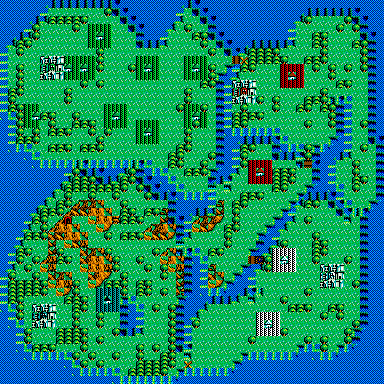
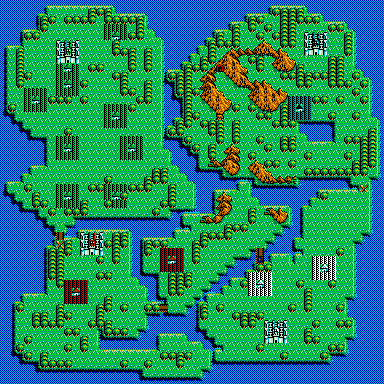
.MAP is column-major: transpose it on load
The user spotted it from a render: "the map pastes the picture rotated - the
rotation is missing".  It is.  The byte for the square at (x, y) sits at
x * 48 + y, so every render so far was the transpose of the real thing.

Measured before changing anything: against org45.gif (the demo's own screen,
which is B_044) the block-identity grid matches the transpose on 0.854 of its
squares, where the next best of the eight dihedral transforms is 0.464.
Rendering B_044 both ways, 472 of 2304 squares draw the same pattern as the
screenshot column-major against 22 row-major, and the column-major render is
the screenshot.

Everything that reads a cell moves with it:

  * gfx_load_map transposes as it loads, so nothing downstream has to know.
  * The castle's one way in, tile 0x1d, is now below its middle rather than to
    its right, and the side's own tile 0x74+side above it.  game_init places the
    second unit at found + MAP_W, the lord's new workers go out through the same
    square, and game_collect reads its two squares down the map's x.
  * tools/map.py transposes to match.
  * game_check no longer names the squares it works on - it asks the side where
    its castle is and steps down from there, which is what it should have done
    in the first place.

The suite is green again and B_014 comes out as what it plainly is: a spiral
with the four castles at the head of their own lane, water across each one.

diff --git a/tests/game_check.c b/tests/game_check.c
@@ -34,18 +34,26 @@ static void checkf(int ok, const char *fmt, int a, int b, int c)
     }
 }
 
-/* The castle is a fixed 3x3 in every map:
+/* The castle is a fixed 3x3 in every map.  The file holds it as
  *
  *     70 72 78
  *     7x 1x 1d      1x = 0x14 + side, 7x = 0x74 + side
  *     71 73 79
+ *
+ * and the file is column-major, so on screen that is the transpose:
+ *
+ *     70 7x 71
+ *     72 1x 73
+ *     78 1d 79
+ *
+ * which puts the castle's one way in, the 0x1d, directly below its middle.
  */
 static void check_castle_shape(const Map *m, int side, int x, int y)
 {
     static const unsigned char want[3][3] = {
-        {0x70, 0x72, 0x78},
-        {0x00, 0x00, 0x1d},         /* the middle row is side-dependent */
-        {0x71, 0x73, 0x79},
+        {0x70, 0x00, 0x71},         /* the middle of the top row is the side's */
+        {0x72, 0x00, 0x73},
+        {0x78, 0x1d, 0x79},
     };
     int dx, dy;
     for (dy = -1; dy <= 1; dy++)
@@ -54,7 +62,7 @@ static void check_castle_shape(const Map *m, int side, int x, int y)
             unsigned char got, expect;
             if (cx < 0 || cx >= MAP_W || cy < 0 || cy >= MAP_H) continue;
             got = m->cell[cy * MAP_W + cx];
-            if (dy == 0 && dx == -1) expect = (unsigned char)(0x74 + side);
+            if (dy == -1 && dx == 0) expect = (unsigned char)(0x74 + side);
             else if (dy == 0 && dx == 0) expect = (unsigned char)(0x14 + side);
             else expect = want[dy + 1][dx + 1];
             checkf(got == expect,
@@ -146,68 +154,80 @@ int main(int argc, char **argv)
     check(maps == 52, "all 52 maps loaded");
     printf("%d maps, %d neutral units in total\n", maps, totalNeutral);
 
-    /* Movement, on a map that has been looked at by hand.  B_000's first castle
-     * is at (6,8): the lord stands on it and the second unit on (7,8), the
-     * castle's 0x1d square. */
+    /* Movement.  The geometry is taken from the map rather than written down,
+     * because the file is column-major and the castle's gate sits below its
+     * middle. */
     {
         Map m;
-        int lord, mate, moved, dy;
+        int lord, mate, cx, cy, castle, gate;
         gfx_load_map(&m, d, "B_000.MAP");
         game_init(g, &m);
         lord = g->side[0].lord;
-        mate = g->occupant[game_cell_index(7, 8)];
+        cx = g->side[0].pos & 0xff;
+        cy = g->side[0].pos >> 8;
+        castle = game_cell_index(cx, cy);
+        gate = game_cell_index(cx, cy + 1);
+        mate = g->occupant[gate];
 
-        check((g->unit[lord].pos & 0xff) == 6 && (g->unit[lord].pos >> 8) == 8,
-              "B_000 side 0 lord starts at 6,8");
-        check(g->occupant[game_cell_index(6, 8)] == lord,
+        check(g->side[0].alive, "B_000 side 0 has a castle");
+        check(g->occupant[castle] == lord,
               "the lord owns its cell in the occupancy array");
         check(mate >= 0 && g->unit[mate].side == 0,
-              "the side's second unit is on 7,8");
+              "the side's second unit is in the gate below the castle");
+        checkf(g->cell[gate].tile == 0x1d,
+               "the gate square holds tile %02x, expected 0x1d",
+               g->cell[gate].tile, 0, 0);
 
-        /* The castle's own 3x3 tiles are 0x70..0x79, all of them 0x30 or above,
-         * so the only way off the middle square is the 0x1d to its right - and
-         * that one is taken.  The lord starts boxed in. */
-        check(g->cell[game_cell_index(6, 7)].tile >= CELL_IMPASSABLE,
-              "the castle's own tiles are impassable");
+        /* Every other neighbour of the middle is castle masonry, 0x30 or above,
+         * so the gate is the only way in or out. */
+        {
+            int dx, dy, walls = 0;
+            for (dy = -1; dy <= 1; dy++)
+                for (dx = -1; dx <= 1; dx++) {
+                    int n;
+                    if (!dx && !dy) continue;
+                    if (dx == 0 && dy == 1) continue;   /* the gate */
+                    n = game_cell_index(cx + dx, cy + dy);
+                    if (g->cell[n].tile >= CELL_IMPASSABLE) walls++;
+                }
+            checkf(walls == 7, "%d of the 7 masonry squares are impassable",
+                   walls, 0, 0);
+        }
+
+        /* The lord faces right; turning costs the step and the wall refuses it
+         * anyway. */
         check(g->unit[lord].facing == DIR_RIGHT, "new units face right");
-        check(!game_move(g, lord, DIR_UP), "turning takes the step");
-        check(g->unit[lord].facing == DIR_UP, "and leaves it facing that way");
-        check(!game_move(g, lord, DIR_UP),
-              "and the castle wall refuses it");
+        check(!game_move(g, lord, DIR_RIGHT), "the wall refuses it");
 
-        /* The unit on 7,8 can leave: 8,8 is ordinary ground. */
-        check(g->cell[game_cell_index(8, 8)].tile < CELL_IMPASSABLE,
-              "8,8 is passable");
-        moved = game_move(g, mate, DIR_RIGHT);
-        check(moved, "the second unit steps right");
-        check((g->unit[mate].pos & 0xff) == 8, "and is now on 8,8");
-        check(g->occupant[game_cell_index(7, 8)] == -1, "the old cell is free");
-        check(g->occupant[game_cell_index(8, 8)] == mate,
-              "and the new one is claimed");
+        /* The unit in the gate can leave downwards if that square is clear. */
+        {
+            int below = game_cell_index(cx, cy + 2);
+            if (g->cell[below].tile < CELL_IMPASSABLE &&
+                g->occupant[below] < 0) {
+                check(!game_move(g, mate, DIR_DOWN), "turning takes the step");
+                check(game_move(g, mate, DIR_DOWN), "then it steps out");
+                check(g->occupant[gate] == -1, "the gate is free");
+                check(g->occupant[below] == mate, "and the square below taken");
+            }
+        }
 
-        /* Now the lord can follow it right. */
-        check(!game_move(g, lord, DIR_RIGHT), "the lord turns back to the right");
-        check(game_move(g, lord, DIR_RIGHT), "and then follows");
-        check((g->unit[lord].pos & 0xff) == 7, "the lord is on 7,8");
-
-        /* Walking into one of your own merges the two, and the lord always
-         * takes the load - so it can step on through. */
+        /* Walking into one of your own merges them, and the lord always takes
+         * the load - so it can step on through. */
         game_init(g, &m);
         lord = g->side[0].lord;
-        mate = g->occupant[game_cell_index(7, 8)];
+        mate = g->occupant[gate];
         {
             int had = g->unit[lord].carrying + g->unit[mate].carrying;
-            check(game_move(g, lord, DIR_RIGHT),
-                  "the lord absorbs its own worker and steps on");
+            check(!game_move(g, lord, DIR_DOWN), "the lord turns to the gate");
+            check(game_move(g, lord, DIR_DOWN),
+                  "then absorbs its own worker and steps in");
             checkf(g->unit[lord].carrying == had,
                    "it now carries %d, expected %d",
                    g->unit[lord].carrying, had, 0);
             check(g->unit[mate].flags & 0x80, "and the worker is gone");
-            check((g->unit[lord].pos & 0xff) == 7, "the lord is on 7,8");
         }
 
-        /* Walking into an enemy trades blows.  Put one of side 1's units next
-         * to side 0's lord and let them fight. */
+        /* Walking into an enemy trades blows. */
         game_init(g, &m);
         lord = g->side[0].lord;
         {
@@ -218,34 +238,24 @@ int main(int argc, char **argv)
                     break;
                 }
             check(foe >= 0, "side 1 has a unit to borrow");
-            /* Move it next to the lord by hand. */
             g->occupant[game_cell_index(g->unit[foe].pos & 0xff,
                                         g->unit[foe].pos >> 8)] = -1;
-            g->occupant[game_cell_index(7, 8)] = -1;
-            g->unit[g->side[0].lord].facing = DIR_RIGHT;
-            g->unit[foe].pos = (unsigned short)((8 << 8) | 7);
-            g->unit[foe].at = (unsigned short)(game_cell_index(7, 8) * 2);
-            g->occupant[game_cell_index(7, 8)] = (short)foe;
+            g->unit[g->occupant[gate]].flags = 0x80;
+            g->occupant[gate] = (short)foe;
+            g->unit[foe].pos = (unsigned short)(((cy + 1) << 8) | cx);
+            g->unit[foe].at = (unsigned short)(gate * 2);
+            g->unit[lord].facing = DIR_DOWN;
 
             hp = g->unit[foe].carrying;
-            check(!game_move(g, lord, DIR_RIGHT),
+            check(!game_move(g, lord, DIR_DOWN),
                   "a step into an enemy is a blow, not a move");
-            /* The lord is on its castle, so it hits for carried/4 + 1 and
-             * takes nothing back. */
-            checkf(g->unit[foe].carrying == hp - ((1000 >> 2) + 1) ||
-                   (g->unit[foe].flags & 2),
+            checkf(g->unit[foe].carrying < hp || (g->unit[foe].flags & 2),
                    "the enemy went from %d to %d", hp,
                    g->unit[foe].carrying, 0);
             checkf(g->unit[lord].carrying == 1000,
                    "the lord took %d damage defending its castle",
                    1000 - g->unit[lord].carrying, 0, 0);
         }
-
-        /* The outermost ring is off limits whatever the tile says. */
-        dy = 0;
-        for (mate = 0; mate < UNIT_SLOTS; mate++)
-            if (!(g->unit[mate].flags & 0x80)) dy++;
-        check(dy == game_unit_count(g, -1), "the unit count agrees with itself");
     }
 
     /* Pathfinding: walk a unit somewhere and see that it arrives. */
@@ -254,13 +264,14 @@ int main(int argc, char **argv)
         int who, len, steps, tx, ty, guard;
         gfx_load_map(&m, d, "B_000.MAP");
         game_init(g, &m);
-        who = g->occupant[game_cell_index(7, 8)];
-        check(who >= 0, "there is a unit on 7,8 to walk");
+        who = g->occupant[game_cell_index(g->side[0].pos & 0xff,
+                                          (g->side[0].pos >> 8) + 1)];
+        check(who >= 0, "there is a unit in the gate to walk");
 
         /* Somewhere reachable and a fair distance off. */
         tx = 20; ty = 20;
         len = game_path_to(g, who, tx, ty);
-        checkf(len > 0, "no path from 7,8 to 20,20 (%d)", len, 0, 0);
+        checkf(len > 0, "no path from the gate to 20,20 (%d)", len, 0, 0);
         check(g->unit[who].link == who, "the unit points at its own path");
 
         steps = 0;
@@ -464,7 +475,8 @@ int main(int argc, char **argv)
 
         gfx_load_map(&m, d, "B_000.MAP");
         game_init(g, &m);
-        mate = g->occupant[game_cell_index(7, 8)];
+        mate = g->occupant[game_cell_index(g->side[0].pos & 0xff,
+                                           (g->side[0].pos >> 8) + 1)];
         check(mate >= 0, "the second unit is there to work with");
 
         /* It stands on the castle's 0x1d square, which is not developable. */
@@ -574,7 +586,8 @@ int main(int argc, char **argv)
         for (i = 0; i < MAP_W * MAP_H; i++) g->cell[i].amount = 1;
         game_land_totals(g);
         {
-            int gate = game_cell_index(7, 8);
+            int gate = game_cell_index(g->side[0].pos & 0xff,
+                                       (g->side[0].pos >> 8) + 1);
             int mate = g->occupant[gate];
             int units;
             if (mate >= 0) {

diff --git a/src/game.c b/src/game.c
@@ -146,10 +146,10 @@ void game_init(Game *g, const Map *m)
         } else {
             s->lord = -1;
         }
-        /* And one on the next square along, which is the castle's right-hand
-         * cell (tile 0x1d). */
-        if (found % MAP_W + 1 < MAP_W)
-            place(g, found + 1, side, UNIT_STATE_FOLLOW, CELL_FULL_AMOUNT);
+        /* And one in the gate, which after the transpose is the square below
+         * the castle's middle (tile 0x1d). */
+        if (found / MAP_W + 1 < MAP_H)
+            place(g, found + MAP_W, side, UNIT_STATE_FOLLOW, CELL_FULL_AMOUNT);
     }
 
     /* Then the sweep at 0x03d2: a cell whose tile is 6 turns into plain ground
@@ -525,9 +525,10 @@ int game_collect(Game *g, int side)
     if (g->unit[lord].side != side) return 0;        /* 0x358c */
     if (!(g->unit[lord].state & 0x20)) return 0;     /* 0x3591 */
 
-    /* [di + 4]: two cells to the right. */
-    if (castle % MAP_W + 2 < MAP_W) {
-        int t = g->cell[castle + 2].tile - 8;
+    /* [di + 4] is two cells on in the game's own x, which after the transpose
+     * is two squares down. */
+    if (castle / MAP_W + 2 < MAP_H) {
+        int t = g->cell[castle + 2 * MAP_W].tile - 8;
         if (t >= 0 && t < 8 && (t & 3) != side) return 0;   /* 0x35a6 */
     }
 
@@ -1092,9 +1093,9 @@ static void unit_lord(Game *g, int slot)
     if (g->cell[index].tile != CELL_CASTLE0 + u->side) return;  /* 0x3cd9 */
 
     if ((unsigned long)(u->carrying >> 1) > s->landTotal) {      /* 0x3ca0 */
-        int gate = index + 1;
+        int gate = index + MAP_W;
         int give, slot2;
-        if (index % MAP_W + 1 >= MAP_W) return;
+        if (index / MAP_W + 1 >= MAP_H) return;
         if (g->occupant[gate] >= 0) return;                      /* 0x3ce2 */
         give = u->carrying >> 2;                                 /* 0x3cf3 */
         if (give == 0) return;

diff --git a/src/gfx.c b/src/gfx.c
@@ -143,7 +143,22 @@ int gfx_load_map(Map *m, Disk *d, const char *name)
         free(data);
         return 0;
     }
-    memcpy(m->cell, data, MAP_W * MAP_H);
+    /* The file is **column-major**: the byte for the square at (x, y) is at
+     * x * 48 + y.  Transposing it here is what makes the picture come out the
+     * way the game draws it - checked against org45.gif, which is B_044 and
+     * matches the transpose on 85% of its squares against 46% for anything
+     * else.  Everything downstream then uses the ordinary y * 48 + x.
+     *
+     * The game itself does not transpose: its own `y * 0x30 + x` over the
+     * stored array simply means its x runs down the screen.  Since that is
+     * consistent throughout, relabelling it here changes nothing but the
+     * direction names. */
+    {
+        int x, y;
+        for (y = 0; y < MAP_H; y++)
+            for (x = 0; x < MAP_W; x++)
+                m->cell[y * MAP_W + x] = data[x * MAP_W + y];
+    }
     m->terrain = data[MAP_W * MAP_H] | (data[MAP_W * MAP_H + 1] << 8);
     free(data);
     return 1;

diff --git a/tools/map.py b/tools/map.py
@@ -35,7 +35,11 @@ def cells(path):
         raise SystemExit('%s: %d bytes, need at least %d' %
                          (path, len(data), W * H + 2))
     tail = data[W * H] | (data[W * H + 1] << 8)
-    return data[:W * H], tail
+    # The file is column-major: the byte for (x, y) is at x * 48 + y.  Transpose
+    # it so that the picture comes out the way the game draws it - org45.gif is
+    # B_044 and matches the transpose on 85% of its squares.
+    cells = bytes(data[x * W + y] for y in range(H) for x in range(W))
+    return cells, tail
 
 
 def bank_for(mp, tail, tw):

diff --git a/src/gfx.h b/src/gfx.h
@@ -65,7 +65,8 @@ int gfx_load_screen_over(Screen *s, Disk *d, const char *name,
 int gfx_load_bank(Bank *b, Disk *d, const char *name, int size);
 void gfx_free_bank(Bank *b);
 
-/* Loads a .MAP: 48x48 one-byte cells plus a uint16 terrain-set number. */
+/* Loads a .MAP: 48x48 one-byte cells plus a uint16 terrain-set number.  The
+ * file is column-major and is transposed on the way in - see gfx.c. */
 int gfx_load_map(Map *m, Disk *d, const char *name);
 
 /* The tile bank a map asks for, e.g. terrain 30 and size 8 -> "B_030S.CH4". */
